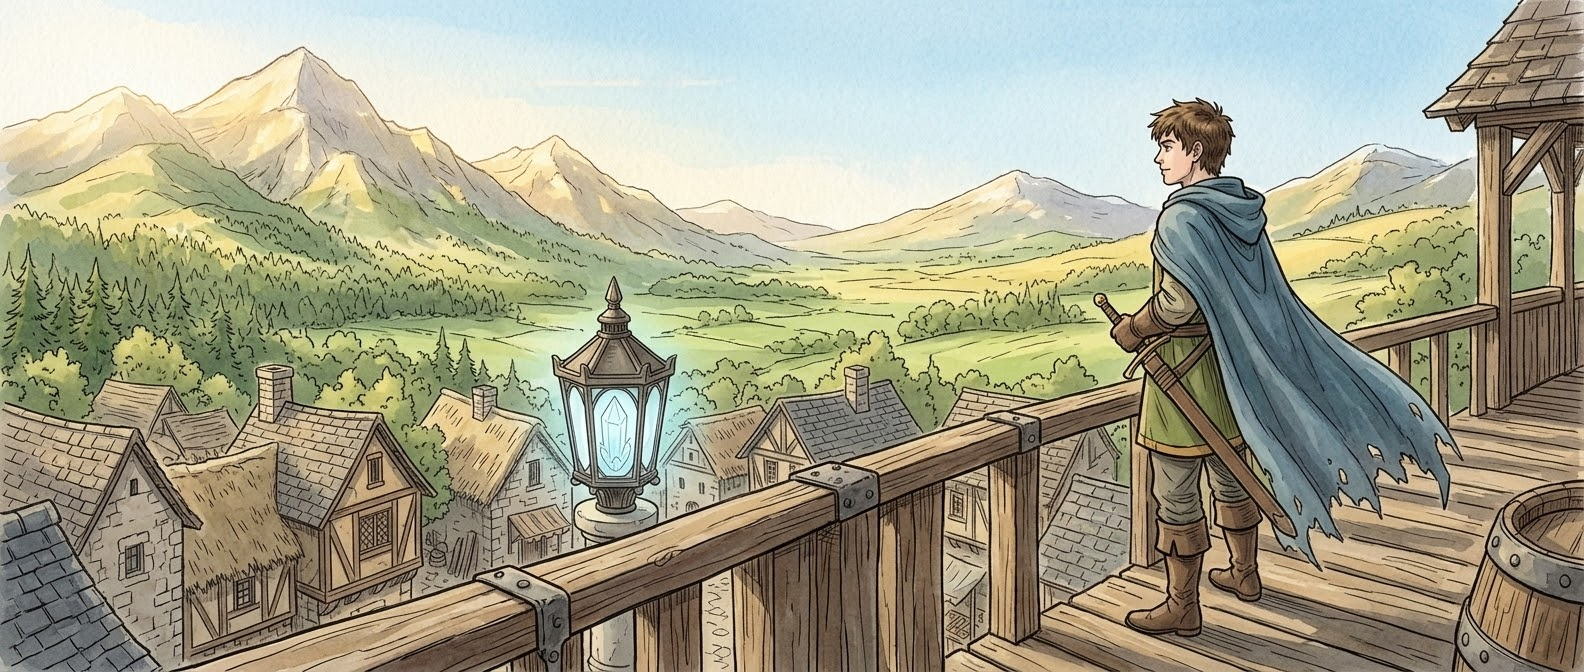
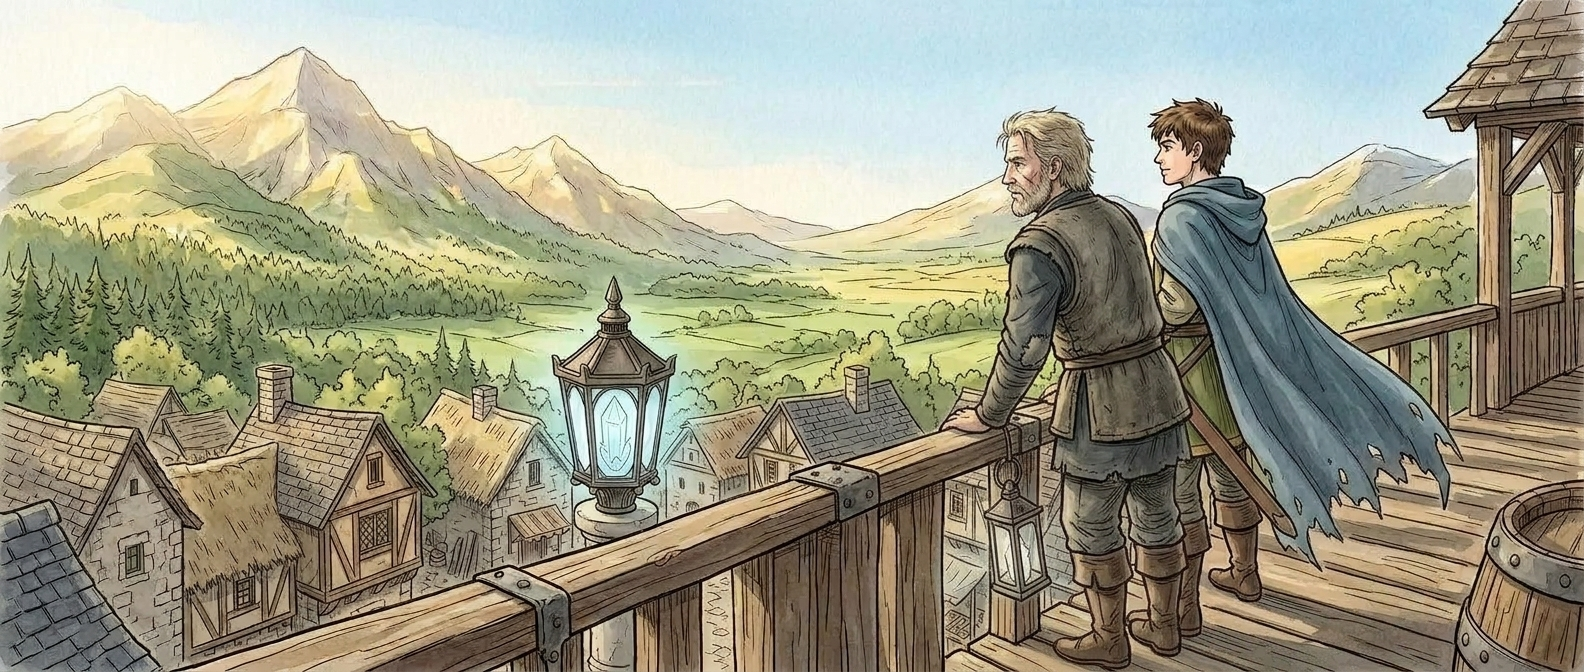
Panorama de la fin : Kael et Aldric sur les remparts (#98)
Claude-Session: https://claude.ai/code/session_015Akdr9aGzvoTQninNWHTTC

diff --git a/sw.js b/sw.js
@@ -4,8 +4,8 @@
    Chaque fichier est rangé avec son empreinte : une mise à jour ne retélécharge que les fichiers qui ont changé.
    La page passe par le réseau d'abord (mises à jour) ; tout le reste vient du cache.
    VERSION, FICHIERS ([chemin, empreinte]) et BASE sont réécrits par outils/construire.js à chaque publication. */
-var VERSION = '0.10.0-f9450c53';
-var FICHIERS = [["./","5fa81ddb"],["commun/ks-back.js","b8343c35"],["commun/ks-studio.js","3a1ce6fe"],["css/jeu.css","37f6380f"],["donnees/acte1.js","630291fa"],["donnees/acte2.js","20d985ac"],["donnees/acte3.js","9d50db37"],["donnees/acte4.js","d61fef85"],["donnees/annexes.js","012f495c"],["donnees/heros.js","f017570b"],["donnees/images.js","f862977c"],["donnees/monde.js","86acb91a"],["donnees/monstres.js","4719bc0e"],["donnees/musiques.js","19f04395"],["donnees/objets.js","b7e9c123"],["donnees/personnages.js","e709b001"],["icon-192.png","8459efc5"],["img/studio/keismey-studio.webp","4303390d"],["img/titre/brume.webp","a7ee7abb"],["img/titre/paix.webp","0e7614b9"],["manifest.webmanifest","7ae7fe8a"],["moteur/base.js","021f13e8"],["moteur/carte.js","6d925697"],["moteur/combat.js","0aa4d4ec"],["moteur/debug.js","4c576027"],["moteur/etat.js","633edc5e"],["moteur/interface.js","83948f1d"],["moteur/jeu.js","93d562c0"],["moteur/menus.js","50e23ba8"],["moteur/provisoire.js","09a0784b"],["moteur/recit.js","3888f05a"],["moteur/scene.js","c4ece23d"],["moteur/son.js","9dfd027f"],["moteur/textes.js","52d8a96b"],["moteur/trailer.js","87f5122e"],["moteur/verrou.js","031564e8"],["moteur/village.js","e846b4a9"],["moteur/zone.js","b76270f2"],["polices/cinzel-600.woff2","f013ac32"],["polices/cinzel-700.woff2","e30aae05"],["polices/figtree-400.woff2","6f0c09ba"],["polices/figtree-500.woff2","f9c9da3b"],["polices/figtree-600.woff2","cdc20e28"],["polices/figtree-700.woff2","32c1002f"],["textes/en/acte1.txt","79c5f059"],["textes/en/acte2.txt","9a3a2d53"],["textes/en/acte3.txt","6a5d291c"],["textes/en/acte4.txt","154d6f51"],["textes/en/annexes.txt","8964e22c"],["textes/en/interface.txt","7db873ec"],["textes/en/lieux.txt","b8819fbf"],["textes/en/noms.txt","8381cb10"],["textes/en/personnages.txt","8e07ad09"],["textes/fr/acte1.txt","4f829adf"],["textes/fr/acte2.txt","3be81e00"],["textes/fr/acte3.txt","d037f418"],["textes/fr/acte4.txt","e008e470"],["textes/fr/annexes.txt","24a41298"],["textes/fr/interface.txt","74a30ac2"],["textes/fr/lieux.txt","a2da6de6"],["textes/fr/noms.txt","1bb2dc5b"],["textes/fr/personnages.txt","e4db1174"],["son/theme.m4a","45e9585f"],["icon-512.png","1f27ab78"],["icon-maskable.png","3f3fa852"],["img/affiche.jpg","a7808329"],["img/decors/aerie.webp","5eefc35d"],["img/decors/carriere-libre.webp","525ce2db"],["img/decors/carriere.webp","8f124f9a"],["img/decors/carte-cendre.webp","4b8ee5f9"],["img/decors/carte-cote.webp","03e4324d"],["img/decors/carte-vents.webp","eaa00d02"],["img/decors/carte.webp","425c1d1d"],["img/decors/champs.webp","81624862"],["img/decors/col-vide.webp","0c86ec33"],["img/decors/col.webp","9f4ab95f"],["img/decors/epave.webp","daa07e65"],["img/decors/escalier-sommet.webp","3695b293"],["img/decors/escalier.webp","91b3266c"],["img/decors/foret-calme.webp","45b1a19c"],["img/decors/foret.webp","96a72aaa"],["img/decors/forgecendre-libre.webp","0c9373ce"],["img/decors/forgecendre.webp","fa77a934"],["img/decors/grotte-sombre.webp","6d87d5fb"],["img/decors/grotte.webp","6ae4b073"],["img/decors/lanternes-allume.webp","65f73472"],["img/decors/lanternes.webp","8aded609"],["img/decors/lanterval.webp","ce721dff"],["img/decors/marais.webp","4795c7a7"],["img/decors/mines-libre.webp","f3052dcf"],["img/decors/mines.webp","339b8c79"],["img/decors/phare-libre.webp","3e823acf"],["img/decors/phare.webp","492f72ec"],["img/decors/pic.webp","e35cdb97"],["img/decors/pont.webp","f0461d69"],["img/decors/ruines.webp","fd8b4d83"],["img/decors/salvent-libre.webp","5b72c254"],["img/decors/salvent.webp","61f88e71"],["img/decors/volcan.webp","26980be1"],["img/heros/kael-portrait.webp","c89d39f3"],["img/heros/kael.webp","bdc29739"],["img/heros/mira-portrait.webp","8136078e"],["img/heros/mira.webp","df886acd"],["img/heros/nev-portrait.webp","72be16d8"],["img/heros/nev.webp","ce09f6f5"],["img/heros/sol-portrait.webp","093eefed"],["img/heros/sol.webp","747cbbed"],["img/pnj/agathe.webp","92ff7a9e"],["img/pnj/aldric.webp","b9a55744"],["img/pnj/aubergiste.webp","668b7a0b"],["img/pnj/berthe.webp","5cc05608"],["img/pnj/bosco.webp","e12c0c9c"],["img/pnj/brann.webp","1e842f36"],["img/pnj/dorn.webp","8dd4f1a4"],["img/pnj/edda.webp","8f9a2134"],["img/pnj/erwan.webp","574c676c"],["img/pnj/fennel.webp","cbb46e04"],["img/pnj/garrick.webp","3dc4027a"],["img/pnj/gaspard.webp","bc44b004"],["img/pnj/goran.webp","b56d1d26"],["img/pnj/heraut.webp","e8b1dca8"],["img/pnj/hilde.webp","25849faf"],["img/pnj/ilse.webp","616261fd"],["img/pnj/joran.webp","3f9d2d02"],["img/pnj/liss.webp","e4041e8d"],["img/pnj/loic.webp","4a06c71d"],["img/pnj/maelle.webp","273e1d31"],["img/pnj/naia.webp","27ee1475"],["img/pnj/nell.webp","91700e63"],["img/pnj/orvan.webp","ac57c3dc"],["img/pnj/pell.webp","f0da1389"],["img/pnj/pia.webp","8f218303"],["img/pnj/rosal.webp","b2da7344"],["img/pnj/roxane.webp","1db0d563"],["img/pnj/sansnom.webp","c87b5be9"],["img/pnj/silhouette.webp","0ee24d2c"],["img/pnj/tavor.webp","72a36284"],["img/pnj/tilo.webp","72c1a054"],["img/pnj/tobi.webp","c4ac89fa"],["img/pnj/varen.webp","bc510b02"],["img/pnj/ysold.webp","0870855f"],["img/panoramas/aerie.webp","f7033024"],["img/panoramas/aldric.webp","9d6fd075"],["img/panoramas/berceuse.webp","24426071"],["img/panoramas/braise.webp","2e19b043"],["img/panoramas/cage-hilde.webp","3faeb791"],["img/panoramas/cage.webp","ce5ba906"],["img/panoramas/carnet.webp","6e9f88cf"],["img/panoramas/cerfvolant.webp","3da4eb5c"],["img/panoramas/chevre.webp","7cf99b74"],["img/panoramas/echo.webp","ef59a22e"],["img/panoramas/epave.webp","18e113fd"],["img/panoramas/epee.webp","0a2cd2f2"],["img/panoramas/epilogue-kael.webp","09667b70"],["img/panoramas/epilogue-mira.webp","c05e8815"],["img/panoramas/epilogue-nev.webp","eb3f7bbd"],["img/panoramas/epilogue-sol.webp","947b7be8"],["img/panoramas/fete-lanterne.webp","95d414cf"],["img/panoramas/feu.webp","5ecaceea"],["img/panoramas/fleur.webp","38d59345"],["img/panoramas/forge.webp","f7b2eae8"],["img/panoramas/forgecendre.webp","d018162c"],["img/panoramas/fresques.webp","4ba400e1"],["img/panoramas/gardien.webp","4a726f66"],["img/panoramas/insigne.webp","42d2fd26"],["img/panoramas/lac-sol.webp","f82e7379"],["img/panoramas/lanterne-fin.webp","c3d8313f"],["img/panoramas/larmes.webp","dfd756cb"],["img/panoramas/loup-alpha.webp","d0d0442e"],["img/panoramas/masque.webp","0b43e49b"],["img/panoramas/mira-loups.webp","2fcb552e"],["img/panoramas/naia.webp","e5dada07"],["img/panoramas/nev-champs.webp","fbbfbeac"],["img/panoramas/oeil.webp","2a947e11"],["img/panoramas/orvan.webp","b3da2b35"],["img/panoramas/ouverture.webp","bcce3aec"],["img/panoramas/phare.webp","7f96c301"],["img/panoramas/pont.webp","42d982d0"],["img/panoramas/rosal.webp","4b61f7cd"],["img/panoramas/salvent.webp","781c4da1"],["img/panoramas/tisseuse.webp","c87778a0"],["img/panoramas/toile-feu.webp","d8ac3c18"],["img/panoramas/tombe.webp","99a81e56"],["img/panoramas/veine.webp","df36b0de"],["img/panoramas/vision.webp","9b00991a"],["img/panoramas/wyverne.webp","dfe70de7"],["img/panoramas/ysold-azur.webp","3878669d"],["img/panoramas/ysold.webp","94c156ec"],["img/monstres/alpha.webp","ba9884f2"],["img/monstres/anguille.webp","7c35cb47"],["img/monstres/araignee.webp","85a09d47"],["img/monstres/automate.webp","4097ba8f"],["img/monstres/belier.webp","4c612e12"],["img/monstres/bosco.webp","cd449eb1"],["img/monstres/brume.webp","ab223071"],["img/monstres/chauve.webp","23352d94"],["img/monstres/chien.webp","3160886f"],["img/monstres/cloporte.webp","5dbcecbe"],["img/monstres/crabe.webp","073dae7c"],["img/monstres/crapaud.webp","d5a7c853"],["img/monstres/esprit.webp","9818f7ce"],["img/monstres/follet.webp","7e36a5e7"],["img/monstres/forgeur.webp","9e13d704"],["img/monstres/gardien.webp","b28df593"],["img/monstres/gargouille.webp","d5d29b85"],["img/monstres/gelee.webp","dec5590e"],["img/monstres/givre.webp","d5092b63"],["img/monstres/golem.webp","bf5a1eed"],["img/monstres/griffon.webp","f4c2a40f"],["img/monstres/harpie.webp","4fade1e0"],["img/monstres/heraut.webp","fdaba2d3"],["img/monstres/larmee.webp","8fba5e08"],["img/monstres/larmef.webp","8acc65bc"],["img/monstres/larmet.webp","1ed1ffe0"],["img/monstres/larmev.webp","593057eb"],["img/monstres/lezard.webp","d7100061"],["img/monstres/loup.webp","832a854a"],["img/monstres/mere.webp","c5144155"],["img/monstres/noye.webp","9a832184"],["img/monstres/nueeoubli.webp","686e8ede"],["img/monstres/ombre.webp","08af682b"],["img/monstres/paupiere.webp","83af5489"],["img/monstres/pie.webp","7ff307d6"],["img/monstres/poisson.webp","3e9016d7"],["img/monstres/prieur.webp","7c80fa23"],["img/monstres/rapace.webp","cc9687ab"],["img/monstres/rocaile-vol.webp","d708e4fd"],["img/monstres/rocaile.webp","1460f5e6"],["img/monstres/salamandre.webp","948712ca"],["img/monstres/salreine.webp","e35ad0a4"],["img/monstres/sanglier.webp","1090dfeb"],["img/monstres/sangsue.webp","ebc8226f"],["img/monstres/sansnom.webp","231e5a3b"],["img/monstres/scarabee.webp","15954788"],["img/monstres/sentinelle.webp","5b9c5ff8"],["img/monstres/serpent.webp","24a3c0ad"],["img/monstres/soldat.webp","776c4201"],["img/monstres/spectre.webp","46997380"],["img/monstres/spore.webp","6e3b266c"],["img/monstres/statue.webp","fd9c8228"],["img/monstres/sylphe.webp","1f0ebffb"],["img/monstres/taupe.webp","23f7e16b"],["img/monstres/tellure.webp","0a62842e"],["img/monstres/tisseuse.webp","edc89926"],["img/monstres/varen.webp","fe0654c6"],["img/monstres/veilleur.webp","5a60c822"],["img/monstres/ver.webp","f3242259"],["img/monstres/vouivre.webp","3ac9fea5"],["img/monstres/wyverne.webp","6b06dd33"],["img/monstres/ysold.webp","47730aa5"],["son/aerie.m4a","be787973"],["son/boss.m4a","de338f71"],["son/brume.m4a","97e1b0d0"],["son/cendre.m4a","66a2cdeb"],["son/combat.m4a","34efbf29"],["son/cote.m4a","d55da8a4"],["son/emotion.m4a","18726b29"],["son/epilogue.m4a","39f5f093"],["son/escalier.m4a","b2af8835"],["son/final.m4a","f5ff3358"],["son/forgecendre.m4a","21fff0ac"],["son/lanterval.m4a","7157227f"],["son/menace.m4a","147bd011"],["son/salvent.m4a","45aec804"],["son/vallee.m4a","f04b4e6c"],["son/vents.m4a","d5dfe201"],["son/voyage.m4a","ba7a067b"]];
+var VERSION = '0.10.0-b1dfd72f';
+var FICHIERS = [["./","5fa81ddb"],["commun/ks-back.js","b8343c35"],["commun/ks-studio.js","3a1ce6fe"],["css/jeu.css","37f6380f"],["donnees/acte1.js","630291fa"],["donnees/acte2.js","20d985ac"],["donnees/acte3.js","9d50db37"],["donnees/acte4.js","d61fef85"],["donnees/annexes.js","012f495c"],["donnees/heros.js","f017570b"],["donnees/images.js","5a4a77fc"],["donnees/monde.js","86acb91a"],["donnees/monstres.js","4719bc0e"],["donnees/musiques.js","19f04395"],["donnees/objets.js","b7e9c123"],["donnees/personnages.js","e709b001"],["icon-192.png","8459efc5"],["img/studio/keismey-studio.webp","4303390d"],["img/titre/brume.webp","a7ee7abb"],["img/titre/paix.webp","0e7614b9"],["manifest.webmanifest","7ae7fe8a"],["moteur/base.js","021f13e8"],["moteur/carte.js","6d925697"],["moteur/combat.js","0aa4d4ec"],["moteur/debug.js","4c576027"],["moteur/etat.js","633edc5e"],["moteur/interface.js","83948f1d"],["moteur/jeu.js","93d562c0"],["moteur/menus.js","50e23ba8"],["moteur/provisoire.js","09a0784b"],["moteur/recit.js","3888f05a"],["moteur/scene.js","c4ece23d"],["moteur/son.js","9dfd027f"],["moteur/textes.js","52d8a96b"],["moteur/trailer.js","87f5122e"],["moteur/verrou.js","031564e8"],["moteur/village.js","e846b4a9"],["moteur/zone.js","b76270f2"],["polices/cinzel-600.woff2","f013ac32"],["polices/cinzel-700.woff2","e30aae05"],["polices/figtree-400.woff2","6f0c09ba"],["polices/figtree-500.woff2","f9c9da3b"],["polices/figtree-600.woff2","cdc20e28"],["polices/figtree-700.woff2","32c1002f"],["textes/en/acte1.txt","79c5f059"],["textes/en/acte2.txt","9a3a2d53"],["textes/en/acte3.txt","6a5d291c"],["textes/en/acte4.txt","154d6f51"],["textes/en/annexes.txt","8964e22c"],["textes/en/interface.txt","7db873ec"],["textes/en/lieux.txt","b8819fbf"],["textes/en/noms.txt","8381cb10"],["textes/en/personnages.txt","8e07ad09"],["textes/fr/acte1.txt","4f829adf"],["textes/fr/acte2.txt","3be81e00"],["textes/fr/acte3.txt","d037f418"],["textes/fr/acte4.txt","e008e470"],["textes/fr/annexes.txt","24a41298"],["textes/fr/interface.txt","74a30ac2"],["textes/fr/lieux.txt","a2da6de6"],["textes/fr/noms.txt","1bb2dc5b"],["textes/fr/personnages.txt","e4db1174"],["son/theme.m4a","45e9585f"],["icon-512.png","1f27ab78"],["icon-maskable.png","3f3fa852"],["img/affiche.jpg","a7808329"],["img/decors/aerie.webp","5eefc35d"],["img/decors/carriere-libre.webp","525ce2db"],["img/decors/carriere.webp","8f124f9a"],["img/decors/carte-cendre.webp","4b8ee5f9"],["img/decors/carte-cote.webp","03e4324d"],["img/decors/carte-vents.webp","eaa00d02"],["img/decors/carte.webp","425c1d1d"],["img/decors/champs.webp","81624862"],["img/decors/col-vide.webp","0c86ec33"],["img/decors/col.webp","9f4ab95f"],["img/decors/epave.webp","daa07e65"],["img/decors/escalier-sommet.webp","3695b293"],["img/decors/escalier.webp","91b3266c"],["img/decors/foret-calme.webp","45b1a19c"],["img/decors/foret.webp","96a72aaa"],["img/decors/forgecendre-libre.webp","0c9373ce"],["img/decors/forgecendre.webp","fa77a934"],["img/decors/grotte-sombre.webp","6d87d5fb"],["img/decors/grotte.webp","6ae4b073"],["img/decors/lanternes-allume.webp","65f73472"],["img/decors/lanternes.webp","8aded609"],["img/decors/lanterval.webp","ce721dff"],["img/decors/marais.webp","4795c7a7"],["img/decors/mines-libre.webp","f3052dcf"],["img/decors/mines.webp","339b8c79"],["img/decors/phare-libre.webp","3e823acf"],["img/decors/phare.webp","492f72ec"],["img/decors/pic.webp","e35cdb97"],["img/decors/pont.webp","f0461d69"],["img/decors/ruines.webp","fd8b4d83"],["img/decors/salvent-libre.webp","5b72c254"],["img/decors/salvent.webp","61f88e71"],["img/decors/volcan.webp","26980be1"],["img/heros/kael-portrait.webp","c89d39f3"],["img/heros/kael.webp","bdc29739"],["img/heros/mira-portrait.webp","8136078e"],["img/heros/mira.webp","df886acd"],["img/heros/nev-portrait.webp","72be16d8"],["img/heros/nev.webp","ce09f6f5"],["img/heros/sol-portrait.webp","093eefed"],["img/heros/sol.webp","747cbbed"],["img/pnj/agathe.webp","92ff7a9e"],["img/pnj/aldric.webp","b9a55744"],["img/pnj/aubergiste.webp","668b7a0b"],["img/pnj/berthe.webp","5cc05608"],["img/pnj/bosco.webp","e12c0c9c"],["img/pnj/brann.webp","1e842f36"],["img/pnj/dorn.webp","8dd4f1a4"],["img/pnj/edda.webp","8f9a2134"],["img/pnj/erwan.webp","574c676c"],["img/pnj/fennel.webp","cbb46e04"],["img/pnj/garrick.webp","3dc4027a"],["img/pnj/gaspard.webp","bc44b004"],["img/pnj/goran.webp","b56d1d26"],["img/pnj/heraut.webp","e8b1dca8"],["img/pnj/hilde.webp","25849faf"],["img/pnj/ilse.webp","616261fd"],["img/pnj/joran.webp","3f9d2d02"],["img/pnj/liss.webp","e4041e8d"],["img/pnj/loic.webp","4a06c71d"],["img/pnj/maelle.webp","273e1d31"],["img/pnj/naia.webp","27ee1475"],["img/pnj/nell.webp","91700e63"],["img/pnj/orvan.webp","ac57c3dc"],["img/pnj/pell.webp","f0da1389"],["img/pnj/pia.webp","8f218303"],["img/pnj/rosal.webp","b2da7344"],["img/pnj/roxane.webp","1db0d563"],["img/pnj/sansnom.webp","c87b5be9"],["img/pnj/silhouette.webp","0ee24d2c"],["img/pnj/tavor.webp","72a36284"],["img/pnj/tilo.webp","72c1a054"],["img/pnj/tobi.webp","c4ac89fa"],["img/pnj/varen.webp","bc510b02"],["img/pnj/ysold.webp","0870855f"],["img/panoramas/aerie.webp","f7033024"],["img/panoramas/aldric.webp","9d6fd075"],["img/panoramas/berceuse.webp","24426071"],["img/panoramas/braise.webp","2e19b043"],["img/panoramas/cage-hilde.webp","3faeb791"],["img/panoramas/cage.webp","ce5ba906"],["img/panoramas/carnet.webp","6e9f88cf"],["img/panoramas/cerfvolant.webp","3da4eb5c"],["img/panoramas/chevre.webp","7cf99b74"],["img/panoramas/echo.webp","ef59a22e"],["img/panoramas/epave.webp","18e113fd"],["img/panoramas/epee.webp","0a2cd2f2"],["img/panoramas/epilogue-kael.webp","8411ed2f"],["img/panoramas/epilogue-mira.webp","c05e8815"],["img/panoramas/epilogue-nev.webp","eb3f7bbd"],["img/panoramas/epilogue-sol.webp","947b7be8"],["img/panoramas/fete-lanterne.webp","95d414cf"],["img/panoramas/feu.webp","5ecaceea"],["img/panoramas/fleur.webp","38d59345"],["img/panoramas/forge.webp","f7b2eae8"],["img/panoramas/forgecendre.webp","d018162c"],["img/panoramas/fresques.webp","4ba400e1"],["img/panoramas/gardien.webp","4a726f66"],["img/panoramas/insigne.webp","42d2fd26"],["img/panoramas/lac-sol.webp","f82e7379"],["img/panoramas/lanterne-fin.webp","c3d8313f"],["img/panoramas/larmes.webp","dfd756cb"],["img/panoramas/loup-alpha.webp","d0d0442e"],["img/panoramas/masque.webp","0b43e49b"],["img/panoramas/mira-loups.webp","2fcb552e"],["img/panoramas/naia.webp","e5dada07"],["img/panoramas/nev-champs.webp","fbbfbeac"],["img/panoramas/oeil.webp","2a947e11"],["img/panoramas/orvan.webp","b3da2b35"],["img/panoramas/ouverture.webp","bcce3aec"],["img/panoramas/phare.webp","7f96c301"],["img/panoramas/pont.webp","42d982d0"],["img/panoramas/rosal.webp","4b61f7cd"],["img/panoramas/salvent.webp","781c4da1"],["img/panoramas/tisseuse.webp","c87778a0"],["img/panoramas/toile-feu.webp","d8ac3c18"],["img/panoramas/tombe.webp","99a81e56"],["img/panoramas/veine.webp","df36b0de"],["img/panoramas/vision.webp","9b00991a"],["img/panoramas/wyverne.webp","dfe70de7"],["img/panoramas/ysold-azur.webp","3878669d"],["img/panoramas/ysold.webp","94c156ec"],["img/monstres/alpha.webp","ba9884f2"],["img/monstres/anguille.webp","7c35cb47"],["img/monstres/araignee.webp","85a09d47"],["img/monstres/automate.webp","4097ba8f"],["img/monstres/belier.webp","4c612e12"],["img/monstres/bosco.webp","cd449eb1"],["img/monstres/brume.webp","ab223071"],["img/monstres/chauve.webp","23352d94"],["img/monstres/chien.webp","3160886f"],["img/monstres/cloporte.webp","5dbcecbe"],["img/monstres/crabe.webp","073dae7c"],["img/monstres/crapaud.webp","d5a7c853"],["img/monstres/esprit.webp","9818f7ce"],["img/monstres/follet.webp","7e36a5e7"],["img/monstres/forgeur.webp","9e13d704"],["img/monstres/gardien.webp","b28df593"],["img/monstres/gargouille.webp","d5d29b85"],["img/monstres/gelee.webp","dec5590e"],["img/monstres/givre.webp","d5092b63"],["img/monstres/golem.webp","bf5a1eed"],["img/monstres/griffon.webp","f4c2a40f"],["img/monstres/harpie.webp","4fade1e0"],["img/monstres/heraut.webp","fdaba2d3"],["img/monstres/larmee.webp","8fba5e08"],["img/monstres/larmef.webp","8acc65bc"],["img/monstres/larmet.webp","1ed1ffe0"],["img/monstres/larmev.webp","593057eb"],["img/monstres/lezard.webp","d7100061"],["img/monstres/loup.webp","832a854a"],["img/monstres/mere.webp","c5144155"],["img/monstres/noye.webp","9a832184"],["img/monstres/nueeoubli.webp","686e8ede"],["img/monstres/ombre.webp","08af682b"],["img/monstres/paupiere.webp","83af5489"],["img/monstres/pie.webp","7ff307d6"],["img/monstres/poisson.webp","3e9016d7"],["img/monstres/prieur.webp","7c80fa23"],["img/monstres/rapace.webp","cc9687ab"],["img/monstres/rocaile-vol.webp","d708e4fd"],["img/monstres/rocaile.webp","1460f5e6"],["img/monstres/salamandre.webp","948712ca"],["img/monstres/salreine.webp","e35ad0a4"],["img/monstres/sanglier.webp","1090dfeb"],["img/monstres/sangsue.webp","ebc8226f"],["img/monstres/sansnom.webp","231e5a3b"],["img/monstres/scarabee.webp","15954788"],["img/monstres/sentinelle.webp","5b9c5ff8"],["img/monstres/serpent.webp","24a3c0ad"],["img/monstres/soldat.webp","776c4201"],["img/monstres/spectre.webp","46997380"],["img/monstres/spore.webp","6e3b266c"],["img/monstres/statue.webp","fd9c8228"],["img/monstres/sylphe.webp","1f0ebffb"],["img/monstres/taupe.webp","23f7e16b"],["img/monstres/tellure.webp","0a62842e"],["img/monstres/tisseuse.webp","edc89926"],["img/monstres/varen.webp","fe0654c6"],["img/monstres/veilleur.webp","5a60c822"],["img/monstres/ver.webp","f3242259"],["img/monstres/vouivre.webp","3ac9fea5"],["img/monstres/wyverne.webp","6b06dd33"],["img/monstres/ysold.webp","47730aa5"],["son/aerie.m4a","be787973"],["son/boss.m4a","de338f71"],["son/brume.m4a","97e1b0d0"],["son/cendre.m4a","66a2cdeb"],["son/combat.m4a","34efbf29"],["son/cote.m4a","d55da8a4"],["son/emotion.m4a","18726b29"],["son/epilogue.m4a","39f5f093"],["son/escalier.m4a","b2af8835"],["son/final.m4a","f5ff3358"],["son/forgecendre.m4a","21fff0ac"],["son/lanterval.m4a","7157227f"],["son/menace.m4a","147bd011"],["son/salvent.m4a","45aec804"],["son/vallee.m4a","f04b4e6c"],["son/vents.m4a","d5dfe201"],["son/voyage.m4a","ba7a067b"]];
 var BASE = ["./","commun/ks-back.js","commun/ks-studio.js","css/jeu.css","donnees/acte1.js","donnees/acte2.js","donnees/acte3.js","donnees/acte4.js","donnees/annexes.js","donnees/heros.js","donnees/images.js","donnees/monde.js","donnees/monstres.js","donnees/musiques.js","donnees/objets.js","donnees/personnages.js","icon-192.png","img/studio/keismey-studio.webp","img/titre/brume.webp","img/titre/paix.webp","manifest.webmanifest","moteur/base.js","moteur/carte.js","moteur/combat.js","moteur/debug.js","moteur/etat.js","moteur/interface.js","moteur/jeu.js","moteur/menus.js","moteur/provisoire.js","moteur/recit.js","moteur/scene.js","moteur/son.js","moteur/textes.js","moteur/trailer.js","moteur/verrou.js","moteur/village.js","moteur/zone.js","polices/cinzel-600.woff2","polices/cinzel-700.woff2","polices/figtree-400.woff2","polices/figtree-500.woff2","polices/figtree-600.woff2","polices/figtree-700.woff2","textes/en/acte1.txt","textes/en/acte2.txt","textes/en/acte3.txt","textes/en/acte4.txt","textes/en/annexes.txt","textes/en/interface.txt","textes/en/lieux.txt","textes/en/noms.txt","textes/en/personnages.txt","textes/fr/acte1.txt","textes/fr/acte2.txt","textes/fr/acte3.txt","textes/fr/acte4.txt","textes/fr/annexes.txt","textes/fr/interface.txt","textes/fr/lieux.txt","textes/fr/noms.txt","textes/fr/personnages.txt","son/theme.m4a"];
 var CACHE = 'lanterval-fichiers';
 var EMP = {};

diff --git a/donnees/images.js b/donnees/images.js
@@ -222,7 +222,7 @@ const IMAGES = {
   'pano.orvan': { fichier: 'img/panoramas/orvan.webp', sujet: 'Au Cœur de l\'Œil, Orvan se jette devant les quatre héros et prend l\'ombre de la Paupière en pleine poitrine ; Ysold à genoux, les cristaux intacts' },
   'pano.ysold': { fichier: 'img/panoramas/ysold.webp', sujet: 'Au Cœur de l\'Œil, Ysold flotte au-dessus d\'une plateforme de pierre, fusionnée aux quatre cristaux qui tournent autour d\'elle' },
   'pano.oeil': { fichier: 'img/panoramas/oeil.webp', sujet: 'L\'Œil du monde s\'ouvre au-dessus des nuages : la paupière de pierre se fend, la lumière coule vers les quatre régions' },
-  'pano.epilogue.kael': { fichier: 'img/panoramas/epilogue-kael.webp', sujet: 'Épilogue de Kael : Lanterval au matin, Kael en garde sur les remparts, l\'épée à la lanterne au côté, la vallée claire sans brume' },
+  'pano.epilogue.kael': { fichier: 'img/panoramas/epilogue-kael.webp', sujet: 'Épilogue de Kael : Lanterval au matin, Kael et Aldric côte à côte sur les remparts après une nuit de garde, la vallée claire sans brume' },
   'pano.epilogue.mira': { fichier: 'img/panoramas/epilogue-mira.webp', sujet: 'Épilogue de Mira : la forge de Forgecendre au matin, une flamme dans l\'âtre, Mira sur le pas de la porte' },
   'pano.epilogue.sol': { fichier: 'img/panoramas/epilogue-sol.webp', sujet: 'Épilogue de Sol : le port de Salvent sous un ciel clair, Sol au bout du quai, le phare qui brille' },
   'pano.epilogue.nev': { fichier: 'img/panoramas/epilogue-nev.webp', sujet: 'Épilogue de Nev : Aerie au vent, des cerfs-volants dans le ciel, Nev sur une plateforme au bord des falaises' },
